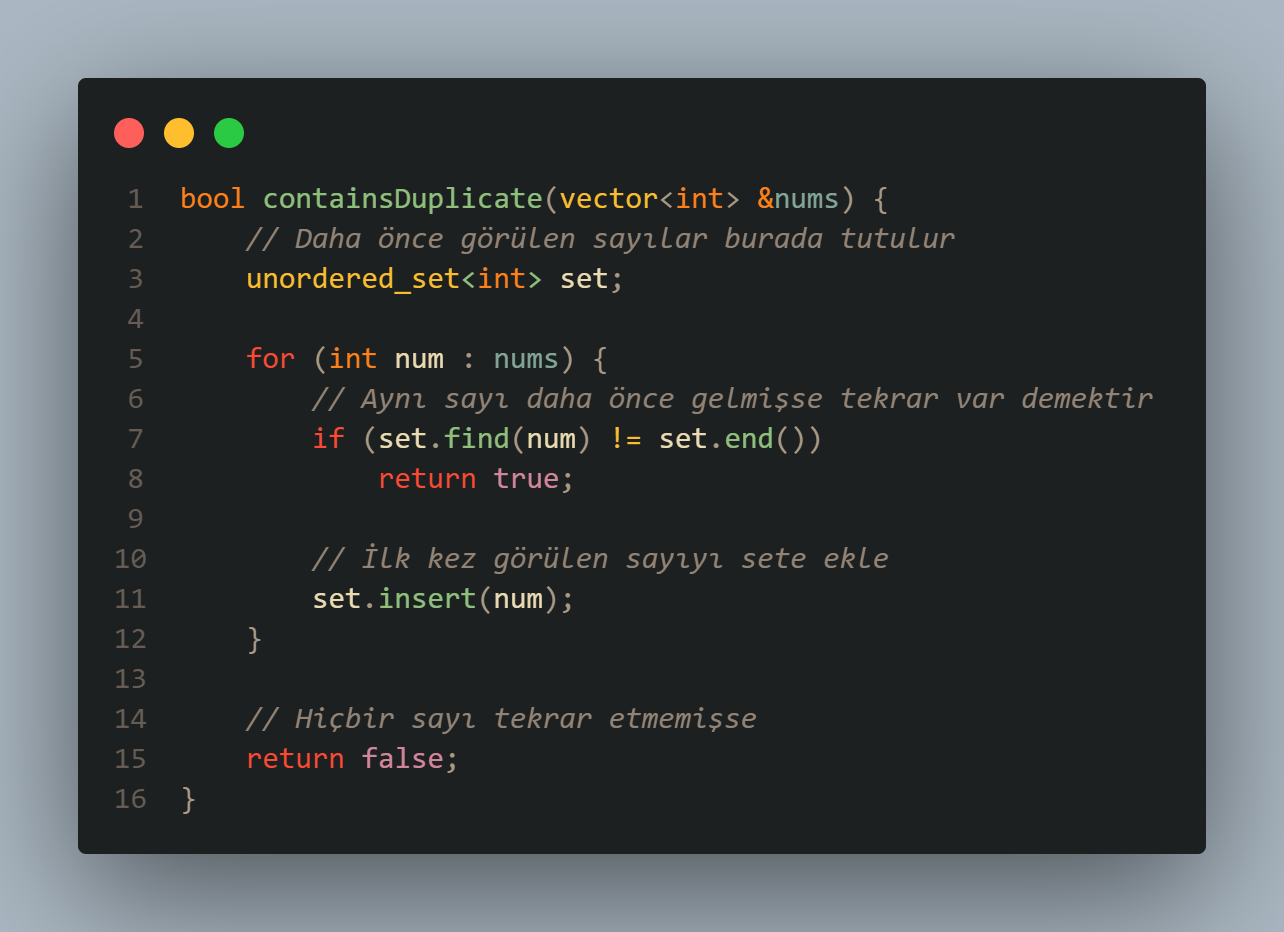
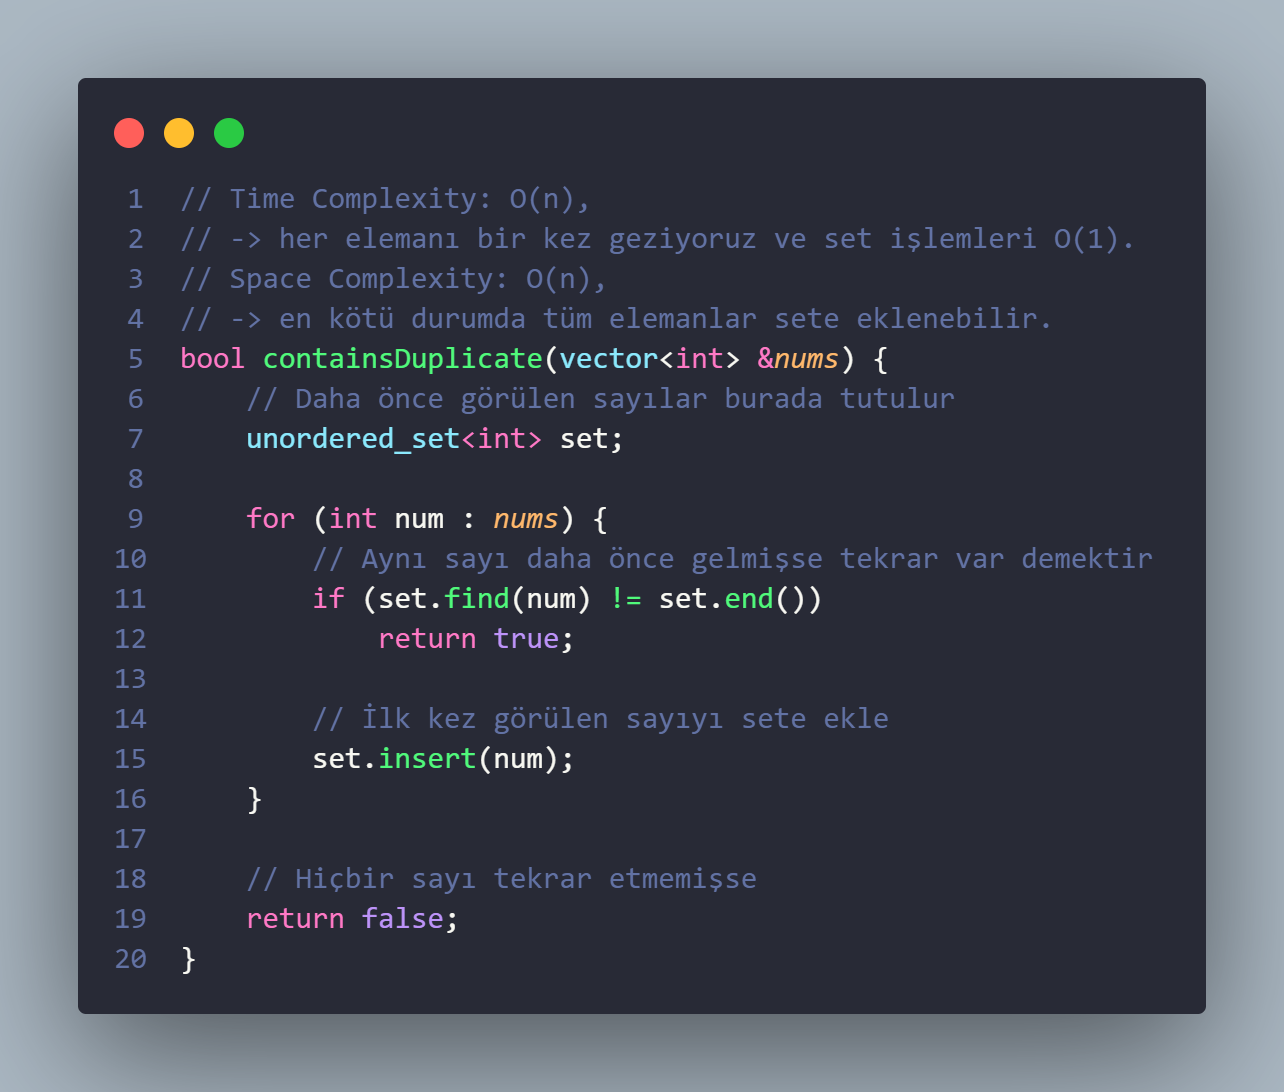
Add week-01 question

diff --git a/wabot/send.js b/wabot/send.js
@@ -102,7 +102,7 @@ client.on("ready", async () => {
   console.log("💬 Bot hazır, mesaj gönderiliyor...");
   isReady = true;
 
-  const target = "905392325682@c.us";
+  const target = "905372714361@c.us";
 
   const text =
     (title ? `📘 ${title}\n` : "") +

diff --git a/week-01-contains-duplicate/contains-duplicate.cpp b/week-01-contains-duplicate/contains-duplicate.cpp
@@ -9,6 +9,10 @@
 
 using namespace std;
 
+// Time Complexity: O(n), 
+// -> her elemanı bir kez geziyoruz ve set işlemleri O(1).
+// Space Complexity: O(n), 
+// -> en kötü durumda tüm elemanlar sete eklenebilir.
 bool containsDuplicate(vector<int> &nums) {
     // Daha önce görülen sayılar burada tutulur
     unordered_set<int> set;

diff --git a/week-01-contains-duplicate/README.md b/week-01-contains-duplicate/README.md
@@ -1,17 +1,36 @@
-## Dizide Aynı Eleman İki Kez Geçiyor mu? (217. Contains Duplicate)
+
+## 1. Gorsel Icerigi
+
+### Soru: Dizide Aynı Eleman İki Kez Geçiyor mu? (217. Contains Duplicate)
 
 Elinde `nums` adında bir tamsayı dizisi var. Bu dizide herhangi bir sayının **birden fazla kez** geçip geçmediğini kontrol etmen isteniyor.
 
 Eğer **aynı sayı birden fazla yerde** geçiyorsa sonuç `true`, tüm sayılar **birbirinden farklıysa** sonuç `false` olacak.
 
------
+> ⏱ Bu soruyu `O(n)` zaman kullanarak çözmen bekleniyor. 
 
-Örnek Input/Output:  
-`[1, 2, 3, 1]` → `true`  
-`[1, 2, 3, 4]` → `false`  
-`[1, 1, 1, 3, 3, 4, 3, 2, 4, 2]` → `true`
+<br/>
 
-------
+## 2. Görsel Icerigi
+
+### Örnekler (Input → Output):
+
+[1, 2, 3, 1] → ✅ true  
+**1 sayısı dizide iki kez geçiyor.**
+
+---
+
+[1, 2, 3, 4] → ❌ false  
+**Tüm sayılar birbirinden farklı.**
+
+---
+
+[1, 1, 1, 3, 3, 4, 3, 2, 4, 2] → ✅ true  
+**Birden fazla sayı birden fazla kez tekrar ediyor.**
+
+<br/>
+
+## Post Aciklamasina Konulabilir
 
 ### Benzer Soru (Contains Duplicate 2) 
 > https://leetcode.com/problems/contains-duplicate-ii/description/
